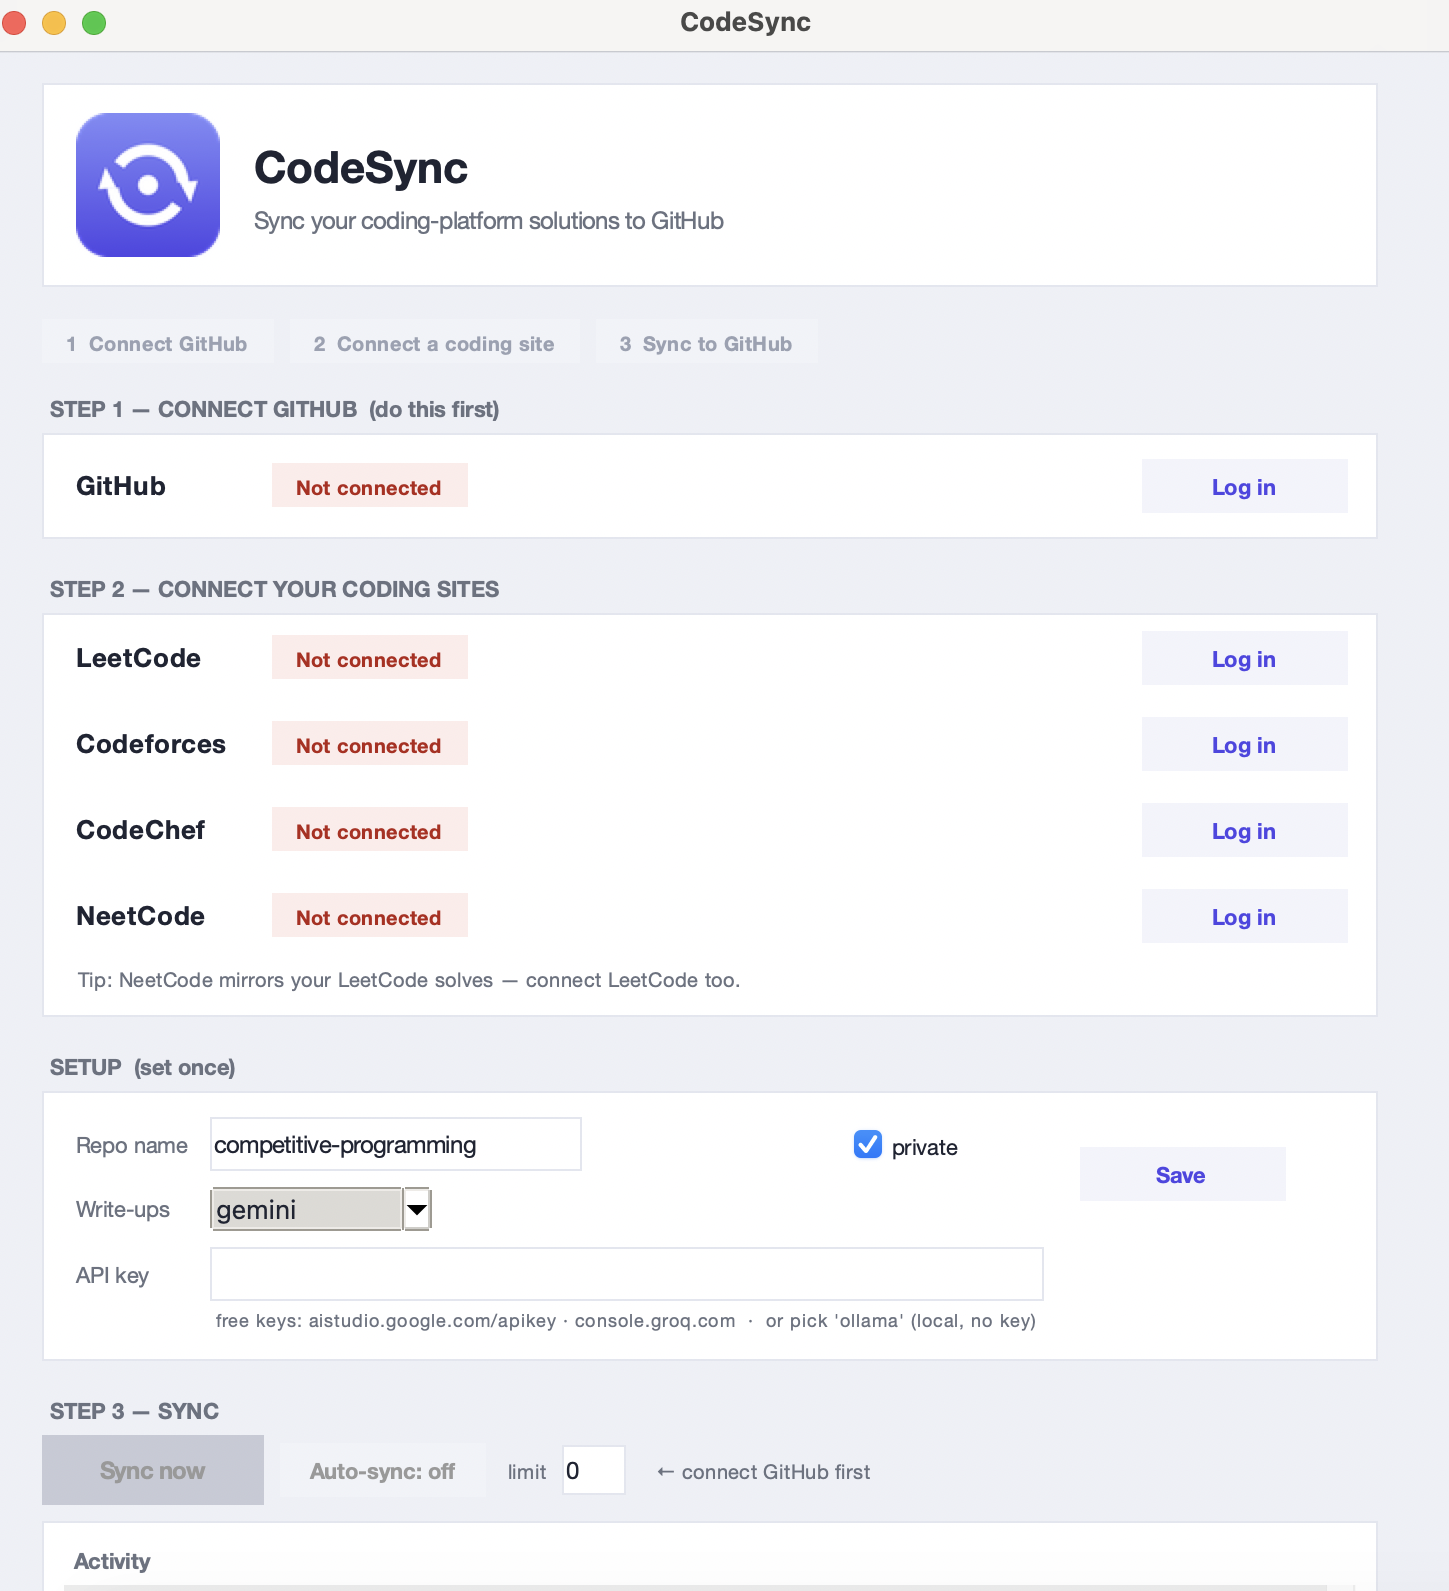
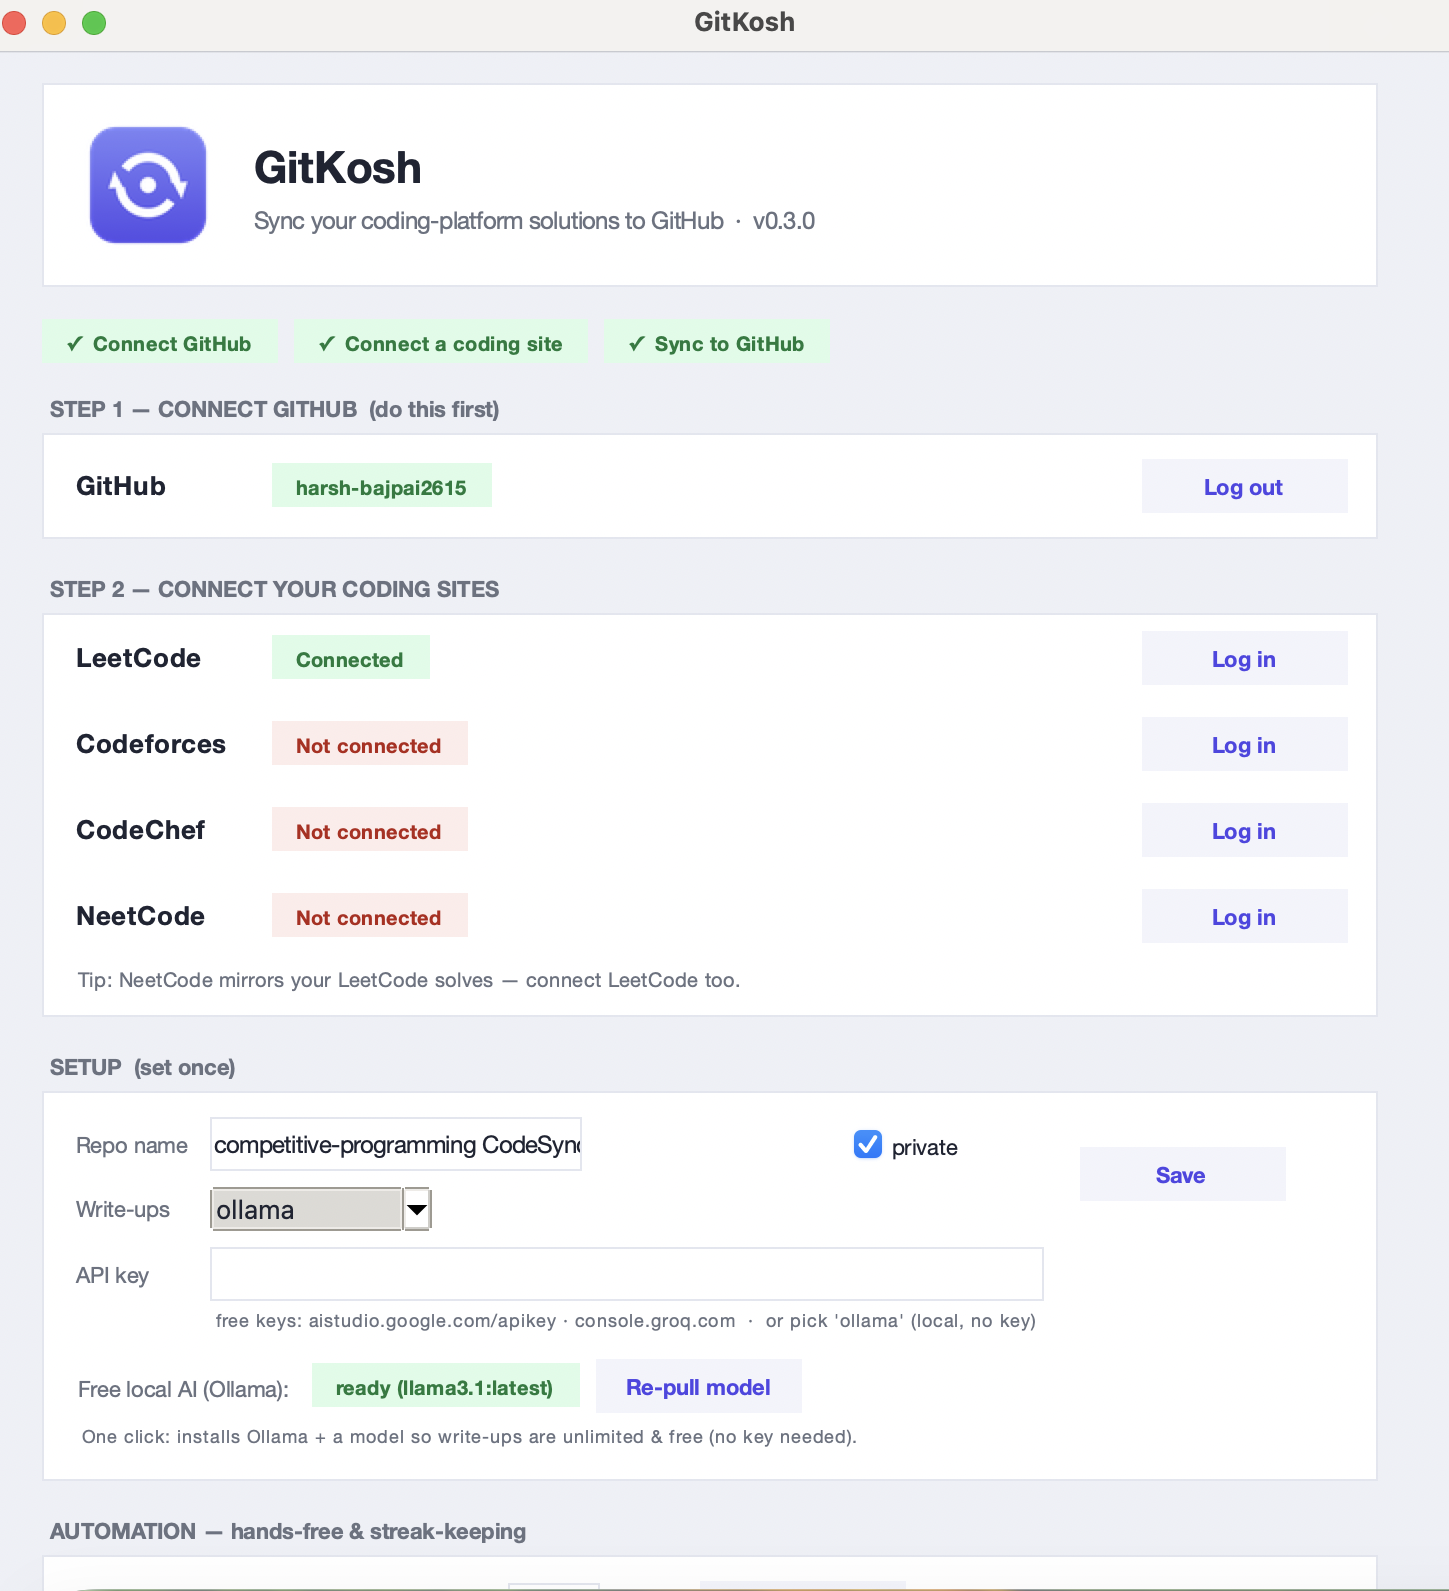
Rebrand to GitKosh (v0.3.0)

diff --git a/app/gui.py b/app/gui.py
@@ -92,7 +92,7 @@ class App:
         self.stop_evt = threading.Event()
         self.pills = {}
 
-        root.title("CodeSync")
+        root.title("GitKosh")
         root.configure(bg=BG)
         root.geometry("760x780")
         root.minsize(560, 520)
@@ -183,7 +183,7 @@ class App:
         if self.logo_img:
             tk.Label(head, image=self.logo_img, bg=CARD).pack(side="left", padx=(14, 12), pady=12)
         txt = tk.Frame(head, bg=CARD); txt.pack(side="left", pady=12)
-        tk.Label(txt, text="CodeSync", bg=CARD, fg=INK, font=(FONT, 22, "bold")).pack(anchor="w")
+        tk.Label(txt, text="GitKosh", bg=CARD, fg=INK, font=(FONT, 22, "bold")).pack(anchor="w")
         tk.Label(txt, text=f"Sync your coding-platform solutions to GitHub  ·  v{constants.VERSION}",
                  bg=CARD, fg=MUTED, font=(FONT, 12)).pack(anchor="w")
 
@@ -475,9 +475,9 @@ class App:
         info = self.update_info
         if not info:
             return
-        if not messagebox.askyesno("Update CodeSync",
+        if not messagebox.askyesno("Update GitKosh",
                                    f"Download and install v{info['version']}? "
-                                   "CodeSync will relaunch. Your logins and settings are kept."):
+                                   "GitKosh will relaunch. Your logins and settings are kept."):
             return
         self.update_lbl.config(text=f"Updating to v{info['version']}…")
         self.logq.put(f"Updating to v{info['version']}…\n")

diff --git a/setup.py b/setup.py
@@ -21,9 +21,9 @@ OPTIONS = {
     # PyObjC frameworks used by the native login window.
     "includes": ["objc", "Foundation", "Cocoa", "WebKit", "tkinter"],
     "plist": {
-        "CFBundleName": "CodeSync",
-        "CFBundleDisplayName": "CodeSync",
-        "CFBundleIdentifier": "com.harshbajpai.codesync",
+        "CFBundleName": "GitKosh",
+        "CFBundleDisplayName": "GitKosh",
+        "CFBundleIdentifier": "com.harshbajpai.gitkosh",
         "CFBundleShortVersionString": VERSION,
         "CFBundleVersion": VERSION,
         "LSMinimumSystemVersion": "12.0",
@@ -34,7 +34,7 @@ OPTIONS = {
 
 setup(
     app=APP,
-    name="codesync",
+    name="GitKosh",
     options={"py2app": OPTIONS},
     setup_requires=["py2app"],
 )

diff --git a/app/github_api.py b/app/github_api.py
@@ -65,7 +65,7 @@ class GitHubAPI:
                                f"Create it on GitHub first, or use '{login}/{repo}'.")
         cr = self.s.post(f"{API}/user/repos", json={
             "name": repo, "private": self.private, "auto_init": False,
-            "description": "Competitive-programming solutions, synced by codesync.",
+            "description": "Competitive-programming solutions, synced by GitKosh.",
         }, timeout=30)
         cr.raise_for_status()
         return f"{owner}/{repo}"
@@ -85,9 +85,9 @@ class GitHubAPI:
     def _seed_initial(self, owner, repo) -> None:
         """Empty repos reject the Git Data API; create a first commit via Contents API."""
         body = {
-            "message": "Initialize repository (CodeSync)",
+            "message": "Initialize repository (GitKosh)",
             "content": base64.b64encode(
-                "# Competitive Programming\n\nSolutions synced automatically by CodeSync.\n".encode()
+                "# Competitive Programming\n\nSolutions synced automatically by GitKosh.\n".encode()
             ).decode("ascii"),
             "branch": self.branch,
         }

diff --git a/app/scheduler.py b/app/scheduler.py
@@ -1,7 +1,7 @@
 """Daily background scheduling via a macOS LaunchAgent.
 
 Writes ~/Library/LaunchAgents/<LABEL>.plist that launchd runs every day at a set
-time — even when CodeSync isn't open, no human prompt. The agent launches the app
+time — even when GitKosh isn't open, no human prompt. The agent launches the app
 binary with CODESYNC_ROLE=sync (handled in app_main.py) to run a headless sync.
 """
 from __future__ import annotations
@@ -12,9 +12,9 @@ import subprocess
 from pathlib import Path
 from typing import List, Optional, Tuple
 
-LABEL = "com.harshbajpai.codesync.sync"
+LABEL = "com.harshbajpai.gitkosh.sync"
 PLIST_PATH = Path(os.path.expanduser(f"~/Library/LaunchAgents/{LABEL}.plist"))
-LOG_PATH = os.path.expanduser("~/Library/Application Support/codesync/scheduler.log")
+LOG_PATH = os.path.expanduser("~/Library/Application Support/GitKosh/scheduler.log")
 
 
 def is_enabled() -> bool:

diff --git a/app/appsupport.py b/app/appsupport.py
@@ -1,6 +1,6 @@
 """Per-user application paths and config bootstrap.
 
-Everything lives under ~/Library/Application Support/codesync. The app is a
+Everything lives under ~/Library/Application Support/GitKosh. The app is a
 mediator: it holds session cookies (CP sites) + a GitHub token, and pushes via
 the GitHub API — there is no local git repo.
 """
@@ -11,7 +11,7 @@ from pathlib import Path
 
 import yaml
 
-APP_DIR = Path(os.path.expanduser("~/Library/Application Support/codesync"))
+APP_DIR = Path(os.path.expanduser("~/Library/Application Support/GitKosh"))
 CONFIG_PATH = APP_DIR / "config.yaml"
 STATE_DIR = APP_DIR / "state"
 

diff --git a/app/constants.py b/app/constants.py
@@ -8,5 +8,5 @@ registered the OAuth App; config `github.client_id` overrides it if set.
 GITHUB_CLIENT_ID = "Ov23li1zSZj6zdhurptk"  # codesync OAuth App (Device Flow), public/safe to ship
 
 # App version + where the in-app updater looks for new releases.
-VERSION = "0.2.0"
-RELEASES_REPO = "harsh-bajpai2615/codesync"
+VERSION = "0.3.0"
+RELEASES_REPO = "harsh-bajpai2615/gitkosh"

diff --git a/app/login_helper.py b/app/login_helper.py
@@ -48,7 +48,7 @@ class LoginDelegate(NSObject):
         self.window = NSWindow.alloc().initWithContentRect_styleMask_backing_defer_(
             rect, _STYLE, NSBackingStoreBuffered, False
         )
-        self.window.setTitle_("codesync — log in, then click Save & Finish")
+        self.window.setTitle_("GitKosh — log in, then click Save & Finish")
         self.window.center()
         content = self.window.contentView()
 

diff --git a/app/sync_core.py b/app/sync_core.py
@@ -168,7 +168,7 @@ def run_sync(cfg, state_dir, *, stop_on_seen=True, limit=0, keep_streak=False,
     if files:
         progress("busy", text=f"Pushing {len(done)} problem(s) to GitHub…")
         try:
-            url = gh.push(files, f"codesync: {len(done)} solution(s)")
+            url = gh.push(files, f"GitKosh: {len(done)} solution(s)")
             for sub in done:
                 store.mark(sub.key, {"platform": sub.platform, "timestamp": sub.timestamp, "title": sub.title})
             result["pushed"], result["url"] = len(done), url

diff --git a/app_main.py b/app_main.py
@@ -30,7 +30,7 @@ def main():
         cfg = load_config()
         keep = os.environ.get("CODESYNC_KEEP_STREAK") == "1"
         limit = int(os.environ.get("CODESYNC_LIMIT", "0") or "0")
-        print(f"[codesync] scheduled sync starting (keep_streak={keep}, limit={limit})")
+        print(f"[GitKosh] scheduled sync starting (keep_streak={keep}, limit={limit})")
         run_sync(cfg, STATE_DIR, stop_on_seen=True, limit=limit, keep_streak=keep, log=print)
     else:
         from app.gui import main as gui_main

diff --git a/README.md b/README.md
@@ -1,31 +1,31 @@
 <div align="center">
 
-<img src="docs/logo.png" width="120" alt="CodeSync logo" />
+<img src="docs/logo.png" width="120" alt="GitKosh logo" />
 
-# CodeSync
+# GitKosh
 
 **Automatically sync your competitive-programming solutions from LeetCode, Codeforces, CodeChef & NeetCode to GitHub — each with an AI-written explanation, on a daily schedule that even keeps your contribution streak alive.**
 
 ![platform](https://img.shields.io/badge/platform-macOS%2012%2B-000?logo=apple)
 ![python](https://img.shields.io/badge/python-3.13-3776AB?logo=python&logoColor=white)
-![release](https://img.shields.io/github/v/release/harsh-bajpai2615/codesync?color=5B5BD6)
+![release](https://img.shields.io/github/v/release/harsh-bajpai2615/gitkosh?color=5B5BD6)
 ![license](https://img.shields.io/badge/license-MIT-16A34A)
 
-[**⬇ Download for macOS**](https://github.com/harsh-bajpai2615/codesync/releases/latest) · [Features](#-features) · [How it works](#%EF%B8%8F-how-it-works) · [Build from source](#%EF%B8%8F-build-from-source)
+[**⬇ Download for macOS**](https://github.com/harsh-bajpai2615/gitkosh/releases/latest) · [Features](#-features) · [How it works](#%EF%B8%8F-how-it-works) · [Build from source](#%EF%B8%8F-build-from-source)
 
 <br/>
 
-<img src="docs/screenshot.png" width="540" alt="CodeSync app" />
+<img src="docs/screenshot.png" width="540" alt="GitKosh app" />
 
 </div>
 
 ---
 
-## What is CodeSync?
+## What is GitKosh?
 
-CodeSync is a tiny macOS app that turns your scattered competitive-programming solves into a clean, organized, **documented** GitHub repository — automatically. Log into your accounts once; CodeSync pulls every accepted submission, writes a per-problem README (problem summary → a numbered algorithm of *your* solution → complexity → key insight), and pushes it all to GitHub. Put it on a daily schedule and it keeps running — even keeping your contribution graph green.
+GitKosh is a tiny macOS app that turns your scattered competitive-programming solves into a clean, organized, **documented** GitHub repository — automatically. Log into your accounts once; GitKosh pulls every accepted submission, writes a per-problem README (problem summary → a numbered algorithm of *your* solution → complexity → key insight), and pushes it all to GitHub. Put it on a daily schedule and it keeps running — even keeping your contribution graph green.
 
-> It's a **mediator**, not an editor. Keep solving on the platforms you love; CodeSync archives and documents the work for you. Your passwords are never stored — it logs in through the system's WebKit cookie store.
+> It's a **mediator**, not an editor. Keep solving on the platforms you love; GitKosh archives and documents the work for you. Your passwords are never stored — it logs in through the system's WebKit cookie store.
 
 ## ✨ Features
 
@@ -40,8 +40,8 @@ CodeSync is a tiny macOS app that turns your scattered competitive-programming s
 
 ## 📥 Install
 
-1. Download the latest **`codesync.dmg`** from [**Releases**](https://github.com/harsh-bajpai2615/codesync/releases/latest).
-2. Open it and drag **CodeSync** into **Applications**.
+1. Download the latest **`gitkosh.dmg`** from [**Releases**](https://github.com/harsh-bajpai2615/gitkosh/releases/latest).
+2. Open it and drag **GitKosh** into **Applications**.
 3. First launch (the app isn't notarized yet): **right-click → Open → Open** — once. After that it opens normally and updates itself.
 
 ## 🚀 Usage
@@ -70,7 +70,7 @@ leetcode/0001-two-sum/
 
 ## ⏰ Automation & streak keeping
 
-Turn on **“Sync automatically every day”** and CodeSync installs a macOS LaunchAgent that runs a sync daily — even with the app closed. With **“Keep my GitHub streak alive”** on, days with no new solves still get a small dated commit to `activity/streak.md`, so your contribution graph stays green.
+Turn on **“Sync automatically every day”** and GitKosh installs a macOS LaunchAgent that runs a sync daily — even with the app closed. With **“Keep my GitHub streak alive”** on, days with no new solves still get a small dated commit to `activity/streak.md`, so your contribution graph stays green.
 
 ## 🏗️ How it works
 
@@ -93,9 +93,9 @@ NeetCode ─┘   GitHub Device Flow (token)     scheduler (daily) + streak keep
 Requires macOS and a [python.org](https://www.python.org/downloads/macos/) framework Python (3.13 recommended).
 
 ```bash
-git clone https://github.com/harsh-bajpai2615/codesync
-cd codesync
-./build_app.sh          # → dist/codesync.app + dist/codesync.dmg
+git clone https://github.com/harsh-bajpai2615/gitkosh
+cd gitkosh
+./build_app.sh          # → dist/gitkosh.app + dist/gitkosh.dmg
 ```
 
 Cut a release that installed copies will auto-update to:
@@ -109,7 +109,7 @@ Cut a release that installed copies will auto-update to:
 
 ```
 app/            macOS app — GUI, WebKit login, sync core, scheduler, updater, Ollama setup
-codesync/       platform extractors, README generator, GitHub helpers
+gitkosh/       platform extractors, README generator, GitHub helpers
 setup.py        py2app bundle config           build_app.sh   build .app + .dmg
 release.sh      build + publish a release       tools/         app-icon generator
 ```
@@ -120,7 +120,7 @@ release.sh      build + publish a release       tools/         app-icon generato
 - **Not notarized yet** — first launch needs right-click→Open; updates after that are seamless.
 - **CodeChef** is best-effort (Cloudflare, no public API).
 - Free **Gemini** has a low daily cap — use **Ollama** (local) or **Groq** for large backfills.
-- Your data (logins, settings, history) lives in `~/Library/Application Support/codesync/` and survives updates.
+- Your data (logins, settings, history) lives in `~/Library/Application Support/gitkosh/` and survives updates.
 
 ## License
 